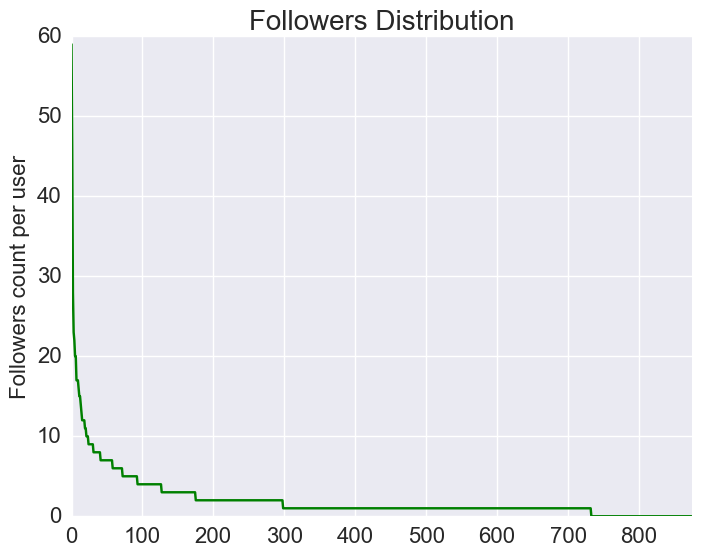
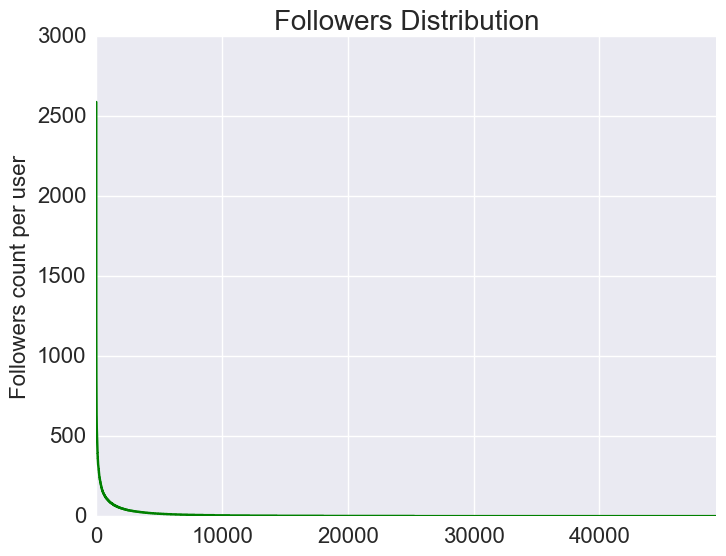
add PMF

diff --git a/visual/visualization/analysis.html b/visual/visualization/analysis.html
@@ -2,15 +2,15 @@
 <link rel='stylesheet' type='text/css' href='reportStyle.css'/></head>
 <body><div class='reportTitle'><div class='in'>Data Analysis</div></div>
 <div class='main'><div class='area1'>
-<div class='title'><h3>Data Files</h3></div><div class='text'>Rating Data: C:\Users\Yu\Desktop\RecQ\dataset\FilmTrust\ratings.txt<br>Social Data: C:\Users\Yu\Desktop\RecQ\dataset\FilmTrust\trust.txt</div></div><div style='padding-top:20px'><center><img src='images/header2.png'/></center></div>
+<div class='title'><h3>Data Files</h3></div><div class='text'>Rating Data: C:\Users\Yu\Desktop\RecQ\dataset\epinions\ratings.txt<br>Social Data: C:\Users\Yu\Desktop\RecQ\dataset\epinions\trusts.txt</div></div><div style='padding-top:20px'><center><img src='images/header2.png'/></center></div>
 <div class='area1'><div class='title'><h3>Rating Data</h3></div>
-<div class='text'>Rating Scale: 0.5 1.0 1.5 2.0 2.5 3.0 3.5 4.0</br>User Count: 1508<br>Item Count: 2071<br>Record Count: 35497<br>Global Mean: 3.11</div>
+<div class='text'>Rating Scale: 1.0 2.0 3.0 4.0 5.0</br>User Count: 40163<br>Item Count: 139738<br>Record Count: 664823<br>Global Mean: 4.034</div>
 <center><div class='img'><img src='images/rh.png' width='640px' height='480px'/></div></center>
 <center><div class='img'><img src='images/rcu.png' width='640px' height='480px'/></div></center>
 <center><div class='img'><img src='images/rci.png' width='640px' height='480px'/></div></center>
 </div><div style='padding-top:20px'><center><img src='images/header2.png'/></center></div>
 <div class='area1'><div class='title'><h3>Social Data</h3></div>
-<div class='text'>User Count: 874<br>Relation Count: 1853<br></div>
+<div class='text'>User Count: 49287<br>Relation Count: 487182<br></div>
 <center><div class='img'><img src='images/ff.png' width='640px' height='480px'/></div></center>
 <center><div class='img'><img src='images/fd1.png' width='640px' height='480px'/></div></center>
 <center><div class='img'><img src='images/fd2.png' width='640px' height='480px'/></div></center>

diff --git a/main/main.py b/main/main.py
@@ -8,6 +8,7 @@ from algorithm.rating.RSTE import RSTE
 from algorithm.rating.UserMean import UserMean
 from algorithm.rating.ItemMean import ItemMean
 from algorithm.rating.SVD import SVD
+from algorithm.rating.PMF import PMF
 from tool.config import Config
 from visual.display import Display
 
@@ -18,7 +19,7 @@ if __name__ == '__main__':
     print '='*80
     print '0. Analyze the input data.(Configure the visual.conf in config/visual first.)'
     print '1. UserKNN   2. ItemKNN   3. BasicMF   4. SlopeOne   5. RSTE   6. UserMean'
-    print '7. ItemMean   8. SVD'
+    print '7. ItemMean   8. SVD   9.PMF'
     algor = -1
     print '-'*80
     order = input('please enter the num of the algorithm to run it:')
@@ -57,6 +58,9 @@ if __name__ == '__main__':
     elif order == 8:
         conf = Config('../config/SVD.conf')
         algor = SVD(conf)
+    elif order == 9:
+        conf = Config('../config/PMF.conf')
+        algor = PMF(conf)
     else:
         print 'Error num!'
         exit(-1)

diff --git a/algorithm/rating/PMF.py b/algorithm/rating/PMF.py
@@ -1,8 +1,8 @@
 from baseclass.IterativeRecommender import IterativeRecommender
 
-class BasicMF(IterativeRecommender):
+class PMF(IterativeRecommender):
     def __init__(self,conf):
-        super(BasicMF, self).__init__(conf)
+        super(PMF, self).__init__(conf)
 
     def buildModel(self):
         iteration = 0
@@ -16,10 +16,11 @@ class BasicMF(IterativeRecommender):
                 self.loss += error**2
                 p = self.P[u].copy()
                 q = self.Q[i].copy()
+                self.loss += self.regU * p.dot(p) + self.regI * q.dot(q)
 
                 #update latent vectors
-                self.P[u] += self.lRate*error*q
-                self.Q[i] += self.lRate*error*p
+                self.P[u] += self.lRate*(error*q-self.regU*p)
+                self.Q[i] += self.lRate*(error*p-self.regI*q)
 
 
             iteration += 1
